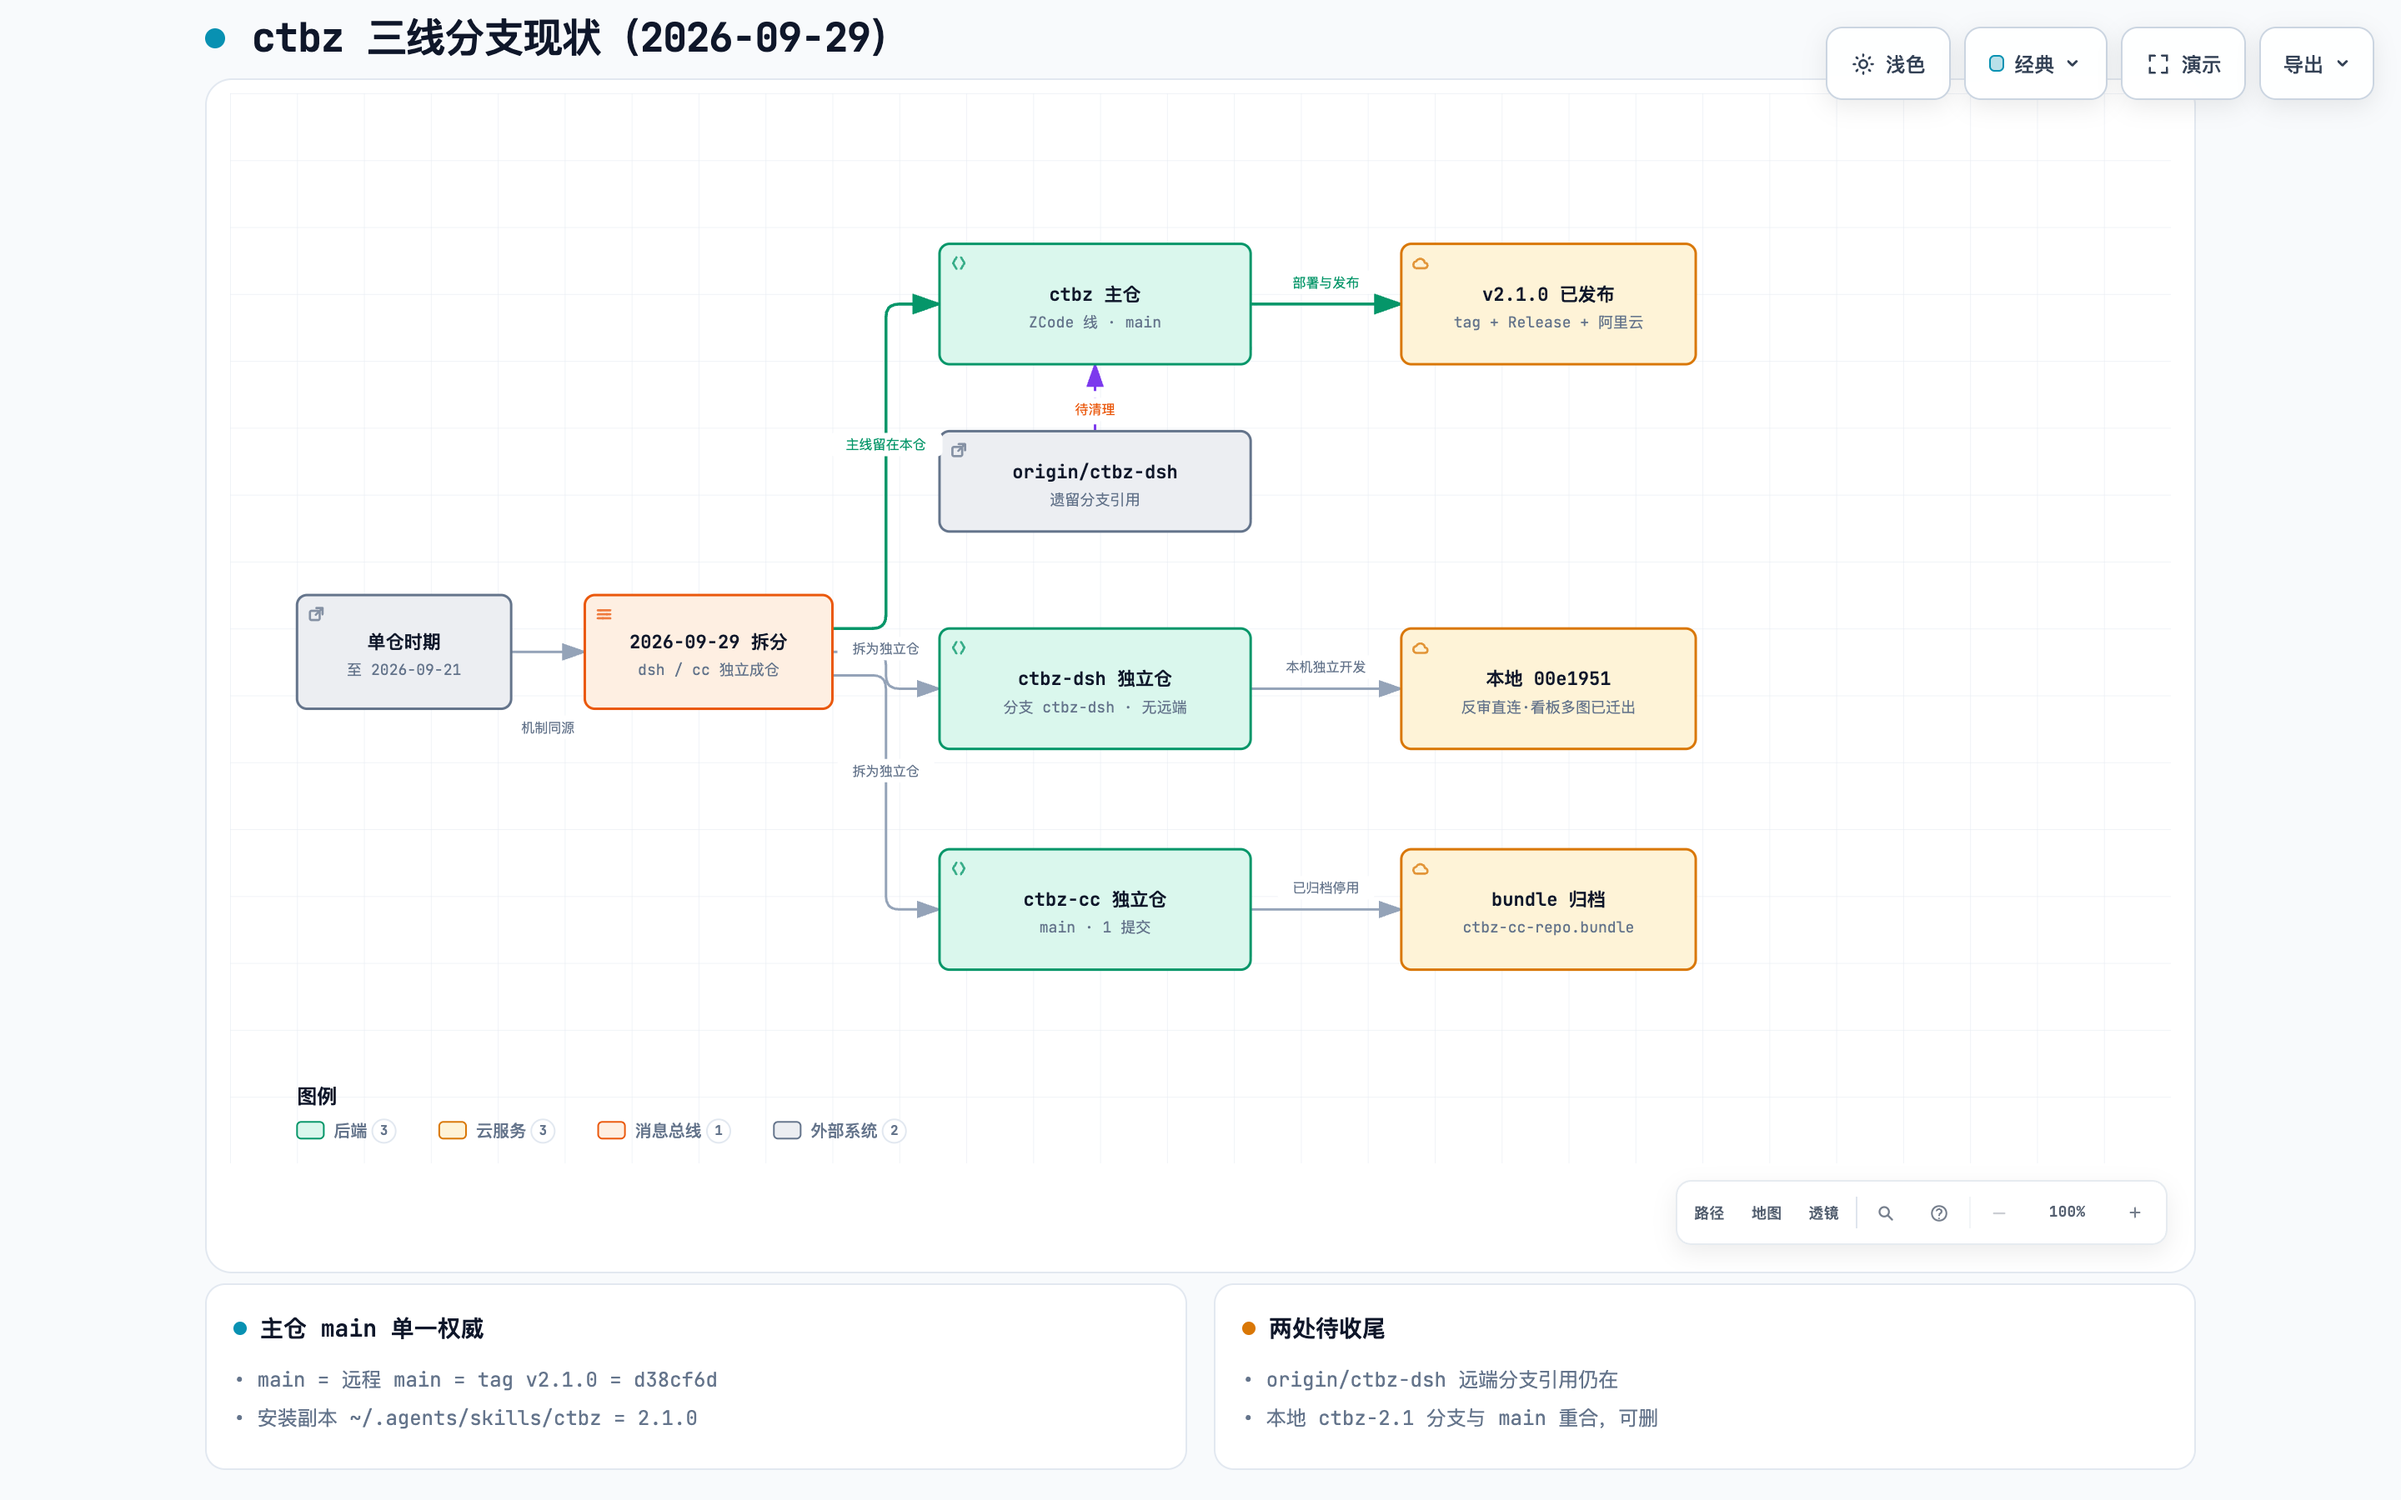
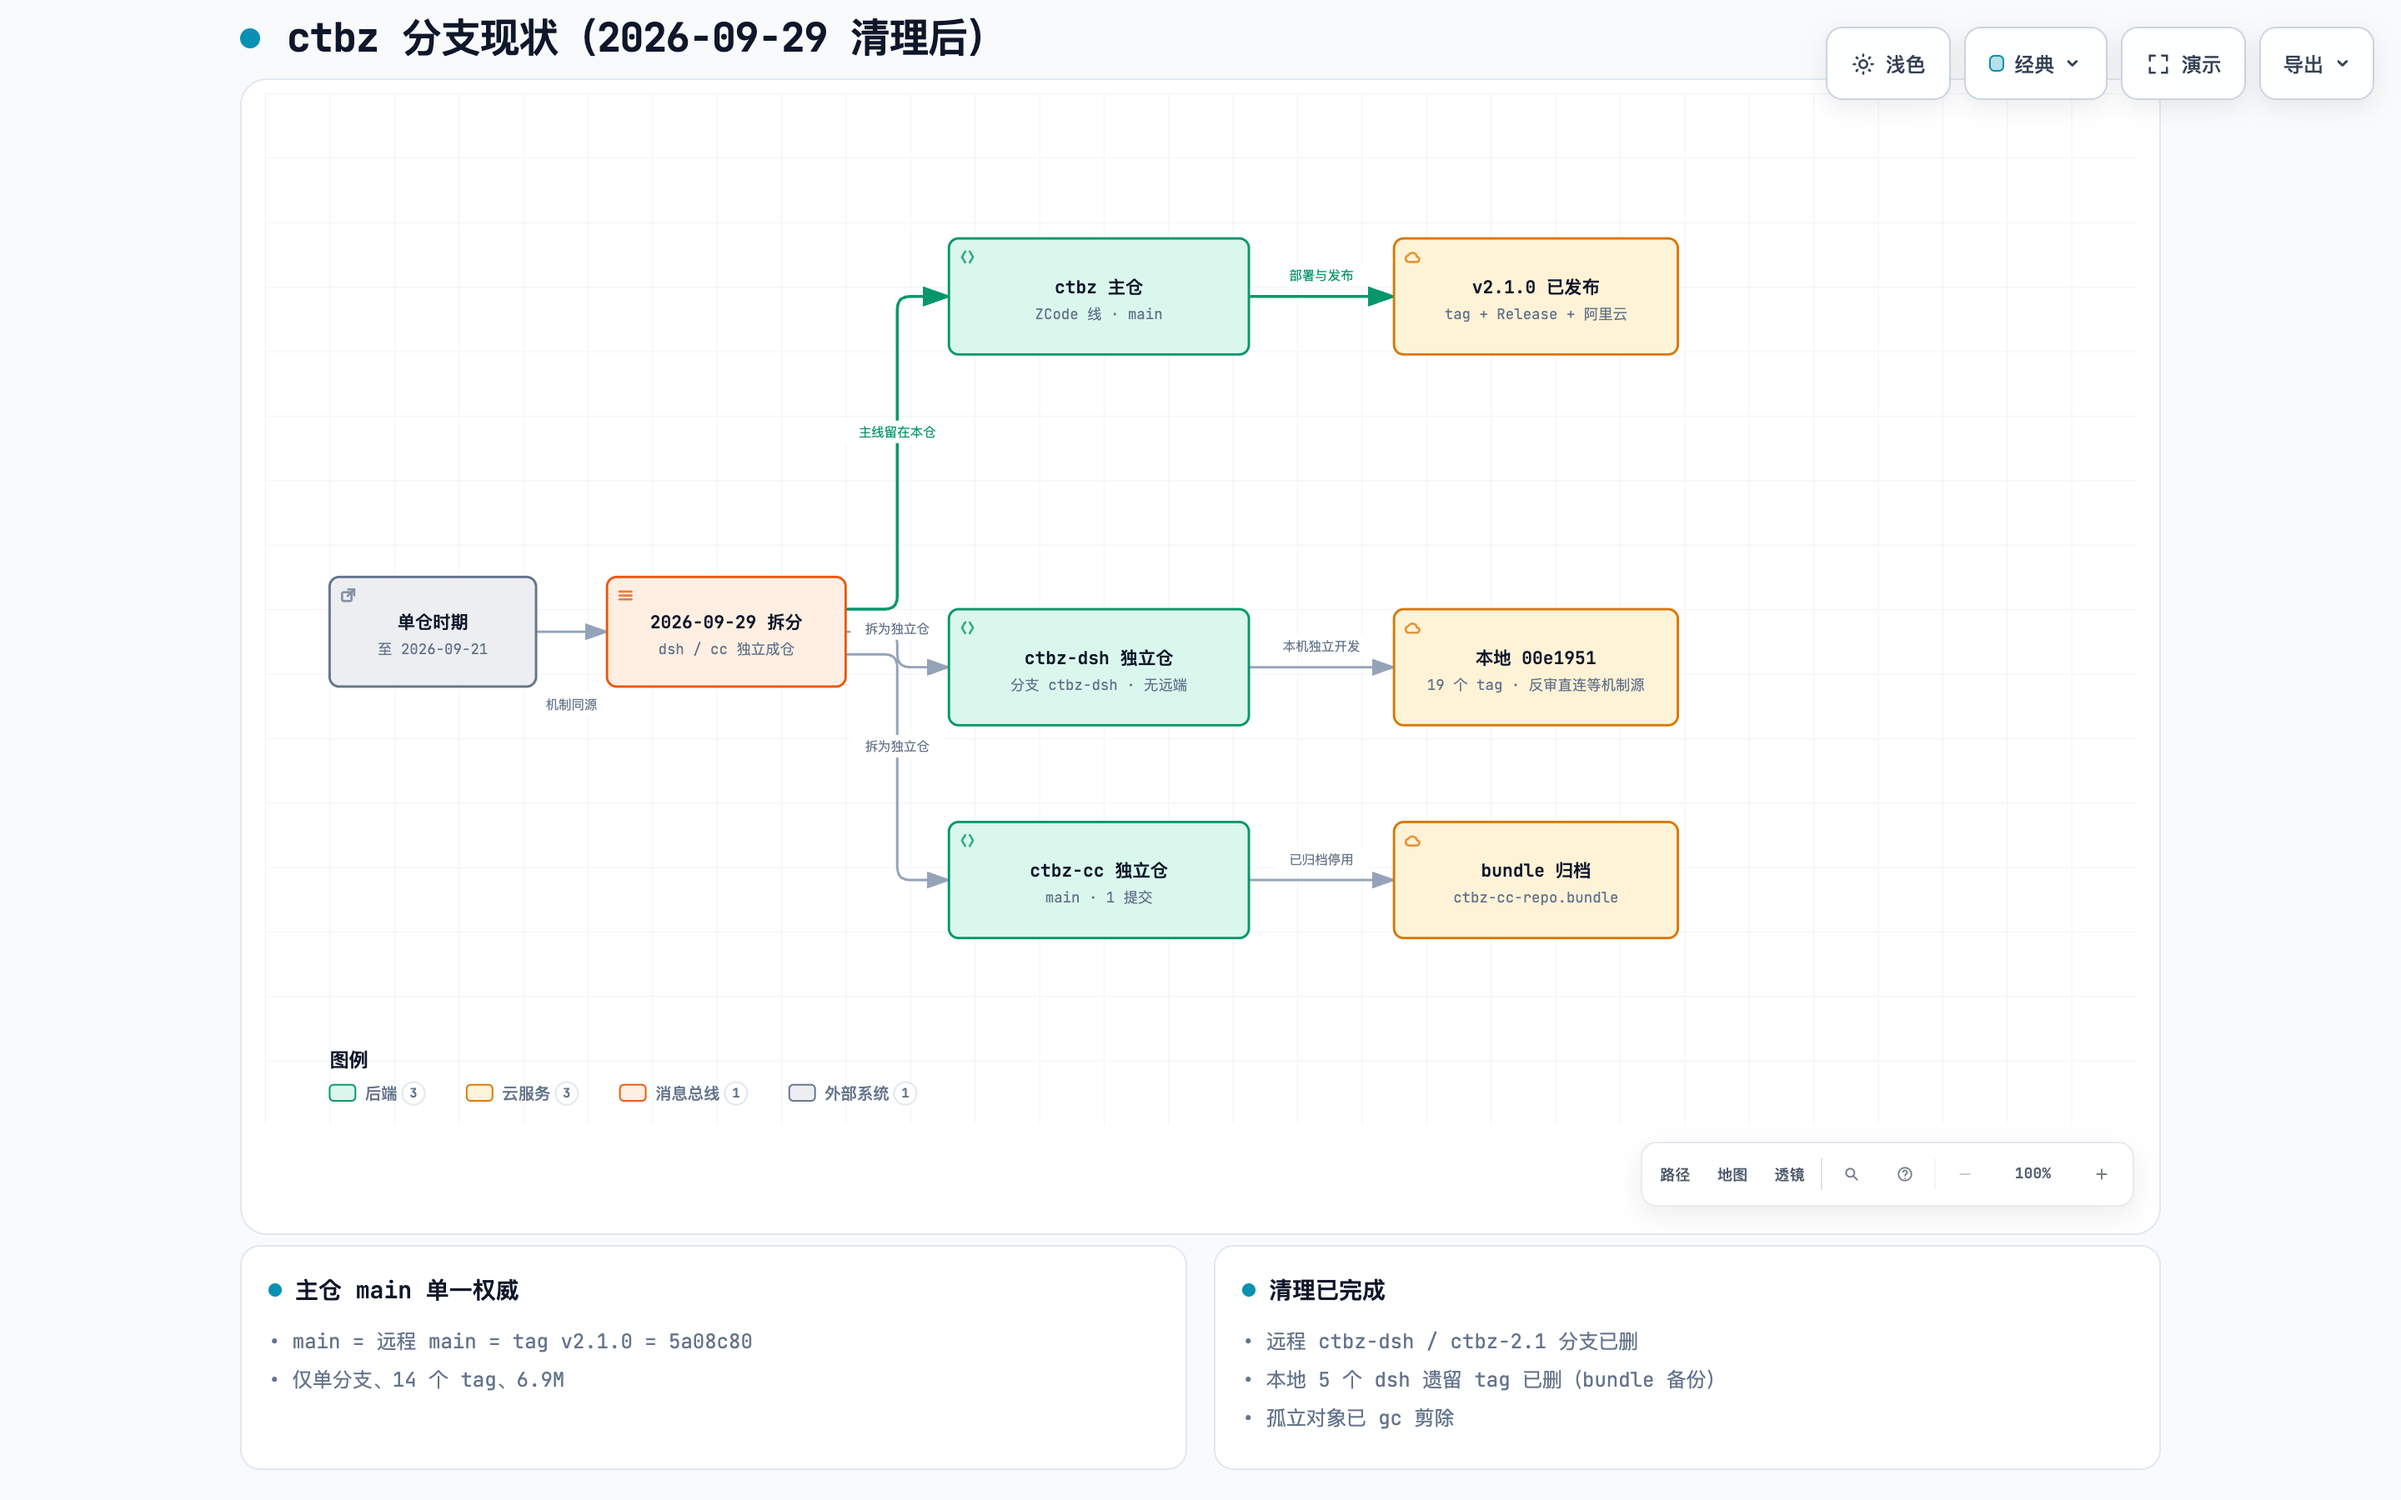
docs: 分支现状图更新为清理后状态 + 冗余引用清理
清理内容：
- 远程分支 origin/ctbz-dsh、origin/ctbz-2.1 已删（内容均已在 main / dsh 独立仓）
- 本地分支 ctbz-2.1 已删（内容全在 main）
- 本地 5 个 dsh 遗留 tag（v2.0.7/.8/.9/v2.2.0/v2.3.0）已删，bundle 备份在 ~/Documents/.ctbz/备份/tags-dsh-legacy-20260929-1731/
- 孤立对象 gc 剪除

终态：主仓单分支 main + 14 个 tag，6.9M

diff --git a/docs/ctbz-分支现状-20260929.html b/docs/ctbz-分支现状-20260929.html
@@ -4,7 +4,7 @@
   <meta charset="UTF-8">
   <meta name="viewport" content="width=device-width, initial-scale=1.0">
   <meta name="generator" content="archify 2.17.0-dev.1">
-  <title>ctbz 三线分支现状（2026-09-29）</title>
+  <title>ctbz 分支现状（2026-09-29 清理后）</title>
   <script>
     // Resolve the theme before first paint so light-preference users don't
     // see a dark flash. The toolbar script below re-applies with UI state.
@@ -4955,7 +4955,7 @@
            data-preset-badge-blueprint="蓝图 / 修订 01"
            data-preset-badge-editorial="编辑风格 / 现场笔记">
         <div class="pulse-dot"></div>
-        <h1>ctbz 三线分支现状（2026-09-29）</h1>
+        <h1>ctbz 分支现状（2026-09-29 清理后）</h1>
       </div>
     </div>
 
@@ -5005,7 +5005,7 @@
     <div class="diagram-container" data-detail-level="read"
          data-preset-badge-editorial-plate="ARCHIFY / 图版 04">
       <svg viewBox="0 0 1160 640" role="img" lang="zh-CN" aria-labelledby="archify-diagram-title archify-diagram-description" data-preset="classic" data-quality-profile="showcase">
-        <title id="archify-diagram-title">ctbz 三线分支现状（2026-09-29）</title>
+        <title id="archify-diagram-title">ctbz 分支现状（2026-09-29 清理后）</title>
         <desc id="archify-diagram-description">由 Archify 生成的架构图。</desc>
         <!-- Definitions -->
         <defs>
@@ -5038,9 +5038,8 @@
         <path data-edge-from="split" data-edge-to="dsh" data-edge-label="拆为独立仓" data-edge-key="2" data-edge-id="split-dsh" data-composition-points="360,334;392,334;392,356;424,356" d="M 360 334 L 384 334 Q 392 334 392 342 L 392 348 Q 392 356 400 356 L 424 356" class="a-default" stroke-width="1.5" marker-end="url(#arrowhead)"/>
         <path data-edge-from="split" data-edge-to="cc" data-edge-label="拆为独立仓" data-edge-key="3" data-edge-id="split-cc" data-composition-points="360,348;392,348;392,488;424,488" d="M 360 348 L 384 348 Q 392 348 392 356 L 392 480 Q 392 488 400 488 L 424 488" class="a-default" stroke-width="1.5" marker-end="url(#arrowhead)"/>
         <path data-edge-from="zc" data-edge-to="zc-v" data-edge-label="部署与发布" data-edge-key="4" data-edge-id="zc-v" data-composition-points="610,126;700,126" d="M 610 126 L 700 126" class="a-emphasis" stroke-width="1.8" marker-end="url(#arrowhead-emphasis)"/>
-        <path data-edge-from="origin" data-edge-to="zc" data-edge-label="待清理" data-edge-key="5" data-edge-id="zc-origin" data-composition-points="517,202;517,162" d="M 517 202 L 517 162" class="a-dashed" stroke-width="1.5" marker-end="url(#arrowhead-dashed)"/>
-        <path data-edge-from="dsh" data-edge-to="dsh-v" data-edge-label="本机独立开发" data-edge-key="6" data-edge-id="dsh-v" data-composition-points="610,356;700,356" d="M 610 356 L 700 356" class="a-default" stroke-width="1.5" marker-end="url(#arrowhead)"/>
-        <path data-edge-from="cc" data-edge-to="cc-v" data-edge-label="已归档停用" data-edge-key="7" data-edge-id="cc-v" data-composition-points="610,488;700,488" d="M 610 488 L 700 488" class="a-default" stroke-width="1.5" marker-end="url(#arrowhead)"/>
+        <path data-edge-from="dsh" data-edge-to="dsh-v" data-edge-label="本机独立开发" data-edge-key="5" data-edge-id="dsh-v" data-composition-points="610,356;700,356" d="M 610 356 L 700 356" class="a-default" stroke-width="1.5" marker-end="url(#arrowhead)"/>
+        <path data-edge-from="cc" data-edge-to="cc-v" data-edge-label="已归档停用" data-edge-key="6" data-edge-id="cc-v" data-composition-points="610,488;700,488" d="M 610 488 L 700 488" class="a-default" stroke-width="1.5" marker-end="url(#arrowhead)"/>
 
         <!-- Components -->
         <g id="node-single" data-node-id="single" data-node-label="单仓时期" tabindex="0" role="button" aria-label="聚焦单仓时期，至 2026-09-21, 架构组件" aria-pressed="false" data-node-kind="external" data-node-sublabel="至 2026-09-21" data-node-context="架构组件">
@@ -5080,18 +5079,6 @@
         <text data-detail="context" x="517" y="140" class="t-muted" font-size="9" text-anchor="middle">ZCode 线 · main</text>
         </g>
 
-        <g id="node-origin" data-node-id="origin" data-node-label="origin/ctbz-dsh" tabindex="0" role="button" aria-label="聚焦origin/ctbz-dsh，遗留分支引用, 架构组件" aria-pressed="false" data-node-kind="external" data-node-sublabel="遗留分支引用" data-node-context="架构组件">
-          <title>origin/ctbz-dsh · 遗留分支引用 · 架构组件</title>
-          <rect x="424" y="202" width="186" height="60" rx="6" class="c-mask"/>
-          <rect x="424" y="202" width="186" height="60" rx="6" class="c-external" stroke-width="1.5"/>
-          <g aria-hidden="true" data-semantic-sigil="external" class="semantic-sigil s-external" transform="translate(430 208) scale(0.6875)">
-            <rect x="2.5" y="5" width="8.5" height="8" rx="1.5"/>
-            <path d="M8 2.5h5.5V8M13.5 2.5 7.5 8.5"/>
-          </g>
-          <text data-node-label="" data-detail-anchor="" x="517" y="230" class="t-primary" font-size="11" font-weight="600" text-anchor="middle">origin/ctbz-dsh</text>
-        <text data-detail="context" x="517" y="246" class="t-muted" font-size="9" text-anchor="middle">遗留分支引用</text>
-        </g>
-
         <g id="node-dsh" data-node-id="dsh" data-node-label="ctbz-dsh 独立仓" tabindex="0" role="button" aria-label="聚焦ctbz-dsh 独立仓，分支 ctbz-dsh · 无远端, 架构组件" aria-pressed="false" data-node-kind="backend" data-node-sublabel="分支 ctbz-dsh · 无远端" data-node-context="架构组件">
           <title>ctbz-dsh 独立仓 · 分支 ctbz-dsh · 无远端 · 架构组件</title>
           <rect x="424" y="320" width="186" height="72" rx="6" class="c-mask"/>
@@ -5125,15 +5112,15 @@
         <text data-detail="context" x="788" y="140" class="t-muted" font-size="9" text-anchor="middle">tag + Release + 阿里云</text>
         </g>
 
-        <g id="node-dsh-v" data-node-id="dsh-v" data-node-label="本地 00e1951" tabindex="0" role="button" aria-label="聚焦本地 00e1951，反审直连·看板多图已迁出, 架构组件" aria-pressed="false" data-node-kind="cloud" data-node-sublabel="反审直连·看板多图已迁出" data-node-context="架构组件">
-          <title>本地 00e1951 · 反审直连·看板多图已迁出 · 架构组件</title>
+        <g id="node-dsh-v" data-node-id="dsh-v" data-node-label="本地 00e1951" tabindex="0" role="button" aria-label="聚焦本地 00e1951，19 个 tag · 反审直连等机制源, 架构组件" aria-pressed="false" data-node-kind="cloud" data-node-sublabel="19 个 tag · 反审直连等机制源" data-node-context="架构组件">
+          <title>本地 00e1951 · 19 个 tag · 反审直连等机制源 · 架构组件</title>
           <rect x="700" y="320" width="176" height="72" rx="6" class="c-mask"/>
           <rect x="700" y="320" width="176" height="72" rx="6" class="c-cloud" stroke-width="1.5"/>
           <g aria-hidden="true" data-semantic-sigil="cloud" class="semantic-sigil s-cloud" transform="translate(706 326) scale(0.6875)">
             <path d="M4.3 12.5h7.3a2.4 2.4 0 0 0 .2-4.8 4 4 0 0 0-7.5-1.3A3.1 3.1 0 0 0 4.3 12.5Z"/>
           </g>
           <text data-node-label="" data-detail-anchor="" x="788" y="354" class="t-primary" font-size="11" font-weight="600" text-anchor="middle">本地 00e1951</text>
-        <text data-detail="context" x="788" y="370" class="t-muted" font-size="9" text-anchor="middle">反审直连·看板多图已迁出</text>
+        <text data-detail="context" x="788" y="370" class="t-muted" font-size="9" text-anchor="middle">19 个 tag · 反审直连等机制源</text>
         </g>
 
         <g id="node-cc-v" data-node-id="cc-v" data-node-label="bundle 归档" tabindex="0" role="button" aria-label="聚焦bundle 归档，ctbz-cc-repo.bundle, 架构组件" aria-pressed="false" data-node-kind="cloud" data-node-sublabel="ctbz-cc-repo.bundle" data-node-context="架构组件">
@@ -5168,15 +5155,11 @@
           <rect x="626" y="106" width="58" height="14" rx="3" class="c-mask"/>
           <text x="655" y="116" class="t-backend" font-size="8" text-anchor="middle">部署与发布</text>
         </g>
-        <g data-detail="context" data-edge-from="origin" data-edge-to="zc" data-edge-label="待清理" data-edge-key="5" data-edge-id="zc-origin">
-          <rect x="497.6" y="182" width="38.8" height="14" rx="3" class="c-mask"/>
-          <text x="517" y="192" class="t-messagebus" font-size="8" text-anchor="middle">待清理</text>
-        </g>
-        <g data-detail="context" data-edge-from="dsh" data-edge-to="dsh-v" data-edge-label="本机独立开发" data-edge-key="6" data-edge-id="dsh-v">
+        <g data-detail="context" data-edge-from="dsh" data-edge-to="dsh-v" data-edge-label="本机独立开发" data-edge-key="5" data-edge-id="dsh-v">
           <rect x="621.2" y="336" width="67.6" height="14" rx="3" class="c-mask"/>
           <text x="655" y="346" class="t-muted" font-size="8" text-anchor="middle">本机独立开发</text>
         </g>
-        <g data-detail="context" data-edge-from="cc" data-edge-to="cc-v" data-edge-label="已归档停用" data-edge-key="7" data-edge-id="cc-v">
+        <g data-detail="context" data-edge-from="cc" data-edge-to="cc-v" data-edge-label="已归档停用" data-edge-key="6" data-edge-id="cc-v">
           <rect x="626" y="468" width="58" height="14" rx="3" class="c-mask"/>
           <text x="655" y="478" class="t-muted" font-size="8" text-anchor="middle">已归档停用</text>
         </g>
@@ -5396,19 +5379,20 @@
           <h3>主仓 main 单一权威</h3>
         </div>
         <ul>
-          <li>&bull; main = 远程 main = tag v2.1.0 = d38cf6d</li>
-          <li>&bull; 安装副本 ~/.agents/skills/ctbz = 2.1.0</li>
+          <li>&bull; main = 远程 main = tag v2.1.0 = 5a08c80</li>
+          <li>&bull; 仅单分支、14 个 tag、6.9M</li>
         </ul>
       </div>
 
       <div class="card">
         <div class="card-header">
-          <div class="card-dot amber"></div>
-          <h3>两处待收尾</h3>
+          <div class="card-dot cyan"></div>
+          <h3>清理已完成</h3>
         </div>
         <ul>
-          <li>&bull; origin/ctbz-dsh 远端分支引用仍在</li>
-          <li>&bull; 本地 ctbz-2.1 分支与 main 重合，可删</li>
+          <li>&bull; 远程 ctbz-dsh / ctbz-2.1 分支已删</li>
+          <li>&bull; 本地 5 个 dsh 遗留 tag 已删（bundle 备份）</li>
+          <li>&bull; 孤立对象已 gc 剪除</li>
         </ul>
       </div>
     </div>
